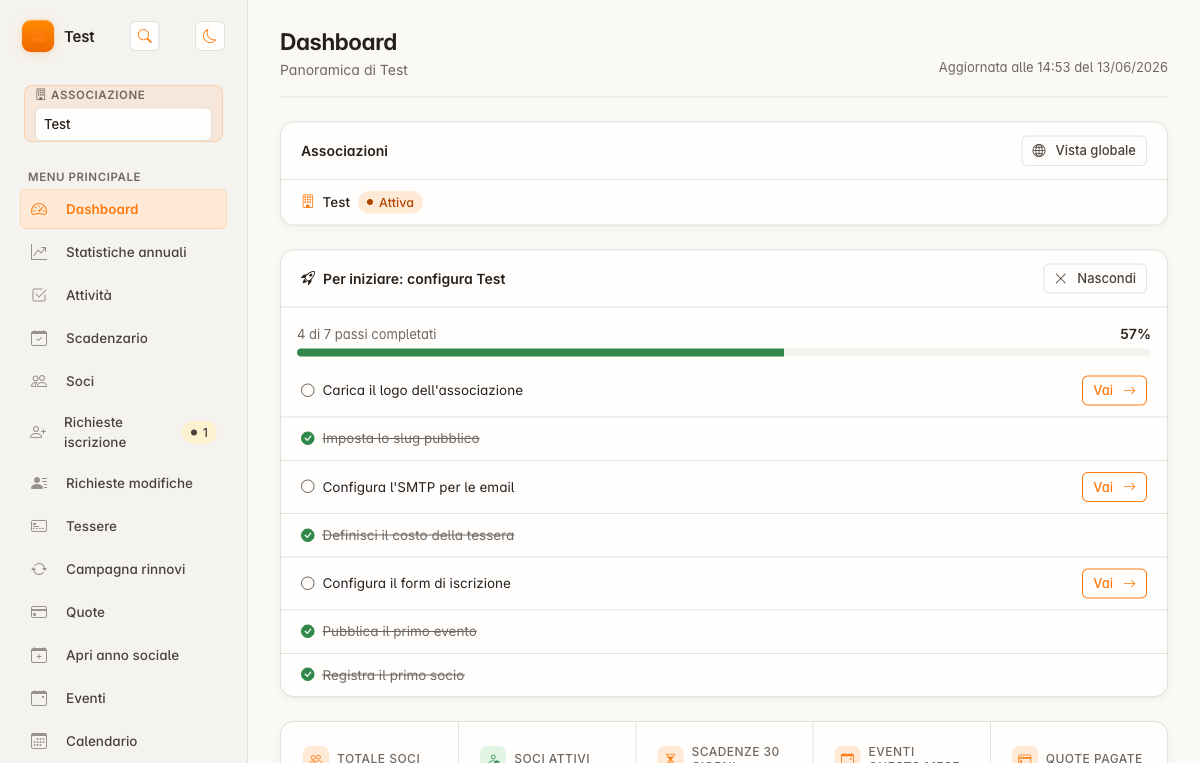
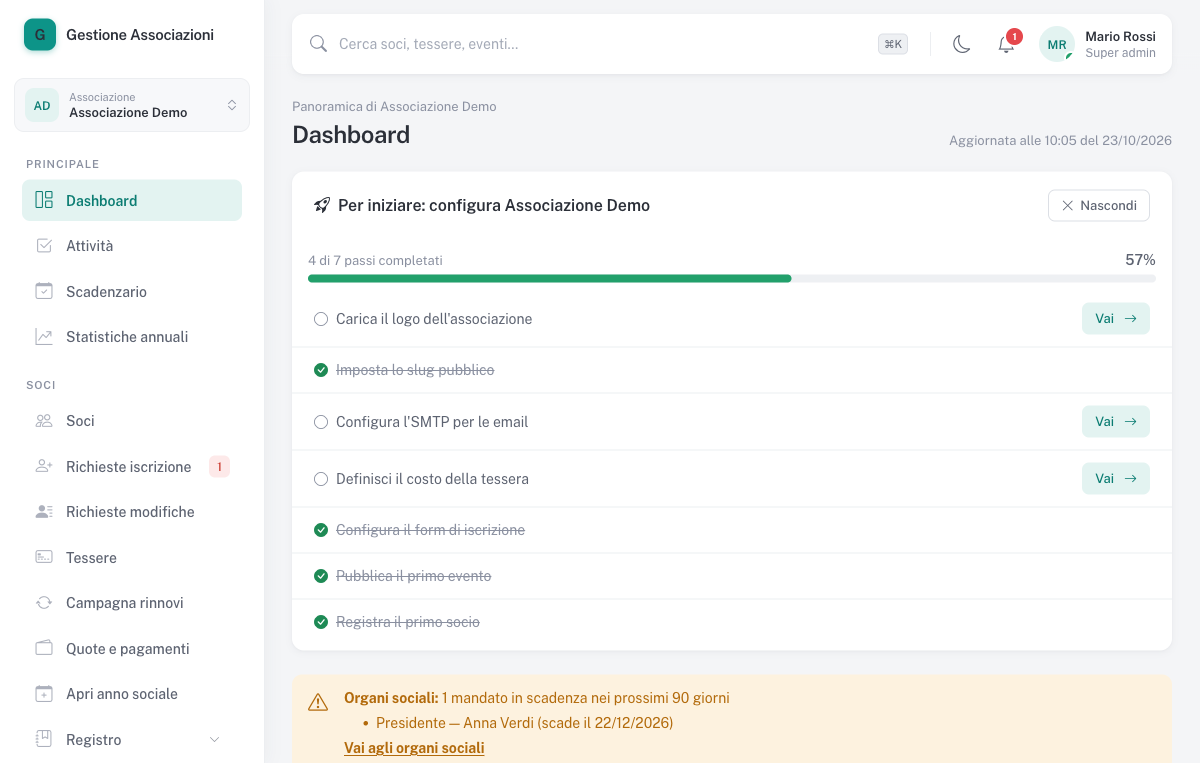
README riscritto: screenshot nuovi dall'installazione di prova e mappa completa delle funzionalità
Installazione senza terminale, aggiornamenti dalla dashboard, pubblicazione
di una versione, percorsi reali, analisi statica, sicurezza e privacy;
21 screenshot presi dal pacchetto v0.1.0 installato (wizard, pannello,
sito pubblico).

diff --git a/README.md b/README.md
@@ -1,8 +1,8 @@
 # Gestionale Associazioni
 
-Piattaforma **SaaS multi-tenant** per la gestione completa della vita di un'associazione: soci e tesseramento, eventi con prenotazioni online, quote e pagamenti, registro ufficiale e governance, comunicazione, economia, volontari e organizzazione interna. Ogni associazione ha il proprio mini-sito pubblico brandizzato dove i cittadini si iscrivono e prenotano gli eventi.
+Piattaforma **multi-tenant** per la gestione completa della vita di un'associazione: soci e tesseramento, iscrizioni dal sito, quote e pagamenti, eventi con prenotazioni e biglietti, economia, registro e organi sociali, comunicazione, volontari, spazi, progetti e riunioni. Una sola installazione serve molte associazioni; ognuna ha il proprio mini-sito pubblico su `/a/{slug}` dove i cittadini si iscrivono, prenotano e pagano, e un'area riservata per i soci.
 
-Costruita in **Laravel 13 / PHP 8.5**, con isolamento multi-tenant a livello di framework, un'area pubblica per ogni associazione, un'area riservata per i soci, API REST documentate e oltre **1.700 test automatici** (PHPUnit + Playwright E2E).
+Costruita con **Laravel 13 / PHP 8.4+**. Si installa anche su un **hosting condiviso senza terminale**: si carica il pacchetto via FTP, si apre il sito e un wizard fa il resto. Gli aggiornamenti si applicano **dalla dashboard**, con backup e rollback, sul modello dell'updater di [Pinakes](https://github.com/fabiodalez-dev/Pinakes).
 
 ![Dashboard](docs/screenshots/dashboard.png)
 
@@ -13,117 +13,118 @@ Costruita in **Laravel 13 / PHP 8.5**, con isolamento multi-tenant a livello di 
 - [Caratteristiche principali](#caratteristiche-principali)
 - [Screenshot](#screenshot)
 - [Funzionalità in dettaglio](#funzionalità-in-dettaglio)
-- [Architettura](#architettura)
-- [Stack e librerie](#stack-e-librerie)
 - [Requisiti](#requisiti)
 - [Installazione](#installazione)
-- [Aggiornamenti in-app](#aggiornamenti-in-app)
-- [Test](#test)
+- [Aggiornamenti](#aggiornamenti)
+- [Pubblicare una versione](#pubblicare-una-versione)
+- [Architettura](#architettura)
+- [Sviluppo e test](#sviluppo-e-test)
+- [Sicurezza e privacy](#sicurezza-e-privacy)
 - [Licenza](#licenza)
 
 ---
 
 ## Caratteristiche principali
 
-- 🏢 **Multi-tenant** — una sola installazione serve molte associazioni, con isolamento dei dati garantito da un global scope a livello di framework.
-- 🌐 **Mini-sito pubblico per associazione** — catalogo eventi, iscrizione soci, prenotazioni, area riservata, pagina trasparenza, sezione sostenitori, a `/a/{slug}`.
-- 🎫 **Tesseramento** — tessere con QR, verifica pubblica, rinnovi self-service, campagna rinnovi, stampa massiva, apertura anno sociale.
-- 🗓 **Eventi e prenotazioni** — pubblicazione, capienza con lista d'attesa e promozione automatica, eventi a pagamento (Stripe/PayPal), check-in con QR, calendario, ricorrenze, feedback post-evento.
-- 👤 **Account ospite e soci** — registrazione pubblica, verifica email, area riservata ricca (prenotazioni, tessera, quote, GDPR), promozione a socio.
-- 💶 **Economia** — quote e ricevute numerate, prima nota con movimenti automatici, donazioni online, report economici, budget eventi.
-- 📋 **Registro e governance** — libro soci ufficiale, cessazioni formali, organi sociali, verbali numerati, riunioni del direttivo con votazioni e bozza verbale.
-- 🤝 **Organizzazione** — volontari e turni con registro ore, spazi e prenotazioni interne, inventario e prestiti, progetti con rendicontazione.
-- ✉ **Comunicazione** — email brandizzate per tenant, template, newsletter, annunci, convocazioni assemblea, sondaggi, compleanni.
-- 🔐 **Sicurezza** — 2FA, ruoli e permessi granulari, audit trail, rate limiting, CSP, honeypot, backup pianificati.
-- 🔄 **Aggiornamenti dalla dashboard** — il super admin aggiorna l'applicazione con un clic, con backup automatico e rollback.
+- 🏢 **Multi-tenant** — isolamento dei dati per associazione a livello di framework; il super admin passa da un'associazione all'altra; le associazioni possono iscriversi da sole alla piattaforma (con conferma email e approvazione).
+- 🌐 **Mini-sito pubblico per associazione** — catalogo eventi, iscrizione soci con modulo configurabile, prenotazioni, donazioni, trasparenza, sostenitori, galleria, calendario ICS.
+- 📝 **Iscrizioni** — modulo pubblico costruito dall'associazione (campi standard e personalizzati, consensi, testi), richieste da approvare con tutti i dati della persona in vista, modalità diretta o con approvazione, preiscrizione via QR.
+- 🎫 **Tesseramento** — tessere con QR e PDF, verifica pubblica, check-in con scanner e kiosk, rinnovi self-service, campagna rinnovi, apertura anno sociale, stampa massiva.
+- 💶 **Quote e pagamenti** — quote per tipo socio, link di pagamento, Stripe e PayPal con credenziali per associazione, ricevute numerate, solleciti, prima nota automatica.
+- 🗓 **Eventi** — capienza e lista d'attesa con promozione automatica, approvazione, eventi a pagamento, biglietti con QR, presenze, serie ricorrenti, feedback, galleria, budget e spese.
+- 📋 **Registro e governance** — libro soci ufficiale (PDF/Excel), cessazioni, organi sociali e cariche, riunioni del direttivo con votazioni e verbale, verbali firmati, decisioni, adempimenti, scadenzario.
+- 🤝 **Organizzazione** — volontari con turni, candidature e registro ore con attestato; spazi con prenotazioni e conflitti; attrezzature e prestiti; progetti con milestone e report; CRM a colonne, contatti esterni, sponsor, referral.
+- ✉ **Comunicazione** — email brandizzate con SMTP per associazione, coda e log, template, newsletter con opt-out, annunci e convocazioni, sondaggi, compleanni, notifiche.
+- 👤 **Account e area soci** — registrazione con verifica email, area riservata (tessera, quote, prenotazioni, dati personali), richieste di modifica dati, export e cancellazione GDPR.
+- 🔐 **Sicurezza** — 2FA, ruoli e permessi per modulo, perimetro per sede, audit di accessi e modifiche, blocco tentativi, CSP, honeypot, backup pianificati, API REST documentate con token.
+- 📦 **Installazione e aggiornamento senza terminale** — pacchetto di release con tutto dentro, wizard web che inietta lo schema SQL nel database vuoto, aggiornamenti dalla dashboard con verifica del pacchetto, backup e rollback.
 
 ---
 
 ## Screenshot
 
-### Dashboard amministrativa
-![Dashboard](docs/screenshots/dashboard.png)
+### Installazione guidata
+Requisiti del server e configurazione del database: lo schema viene iniettato nel database indicato, senza terminale.
 
-### Anagrafica soci
+![Installer: requisiti](docs/screenshots/installer-requisiti.png)
+![Installer: database](docs/screenshots/installer-database.png)
+
+### Soci e richieste di iscrizione
 ![Soci](docs/screenshots/soci.png)
+![Richieste iscrizione](docs/screenshots/richieste-iscrizione.png)
 
-### Eventi
+### Tessere, quote e rinnovi
+![Tessere](docs/screenshots/tessere.png)
+![Quote e pagamenti](docs/screenshots/quote.png)
+![Campagna rinnovi](docs/screenshots/campagna-rinnovi.png)
+
+### Eventi e calendario
 ![Eventi](docs/screenshots/eventi.png)
+![Calendario](docs/screenshots/calendario.png)
 
-### Statistiche annuali (l'anno in cifre)
+### Economia e statistiche
+![Prima nota](docs/screenshots/prima-nota.png)
 ![Statistiche annuali](docs/screenshots/statistiche.png)
 
-### Prima nota economica
-![Prima nota](docs/screenshots/prima-nota.png)
+### Organizzazione
+![Riunioni del direttivo](docs/screenshots/riunioni.png)
+![Volontari e turni](docs/screenshots/volontari-turni.png)
+![CRM a colonne](docs/screenshots/crm.png)
 
-### Mini-sito pubblico dell'associazione
-![Frontend pubblico](docs/screenshots/frontend-eventi.png)
+### Configurazione e modulo di iscrizione
+![Configurazioni](docs/screenshots/configurazioni.png)
+![Costruttore del modulo di iscrizione](docs/screenshots/modulo-iscrizione.png)
 
-### Login
-![Login](docs/screenshots/login.png)
+### Mini-sito pubblico
+![Home pubblica](docs/screenshots/frontend-home.png)
+![Eventi pubblici](docs/screenshots/frontend-eventi.png)
+![Modulo di iscrizione pubblico](docs/screenshots/frontend-iscriviti.png)
+
+### Aggiornamenti dalla dashboard
+![Aggiornamenti](docs/screenshots/aggiornamenti.png)
 
 ---
 
 ## Funzionalità in dettaglio
 
-Il sistema è stato costruito in round successivi. Ogni area è coperta da test automatici.
+### Soci
+Anagrafica completa con stati (in attesa, attivo, sospeso, radiato…), tipi e categorie, sedi, tag, gruppi dinamici, filtri salvati, ricerca globale ⌘K, note interne, storico attività, documenti del socio, foto. **Campi personalizzati** di nove tipi (testo, email, telefono, numero, data, url, area di testo, scelta, casella) con validazione per tipo, obbligatorietà separata per segreteria e modulo pubblico, modificabili anche con dati già inseriti. Import CSV con report degli errori, export CSV/Excel, rilevazione e unione dei duplicati, azioni in blocco, nuclei familiari, soci minorenni con tutore, cestino con ripristino, registro delle modifiche.
 
-### Base — gestione associativa
-Anagrafica soci con campi personalizzati, tag, gruppi dinamici, filtri salvati, ricerca full-text, import/export Excel. Tessere con QR, template, PDF, verifica pubblica e scanner. Quote e pagamenti online (Stripe/PayPal). Eventi e partecipanti. Email per tenant (template, coda, log, SMTP dedicato). Documenti, verbali, scadenze. Gestione associazioni, sedi, amministratori, configurazioni. API REST v1 con Sanctum e documentazione OpenAPI.
+### Iscrizioni dal sito
+Ogni associazione costruisce il proprio modulo (`/a/{slug}/iscriviti`): campi standard da mostrare o nascondere, campi personalizzati, obbligatorietà, testi e consensi. La richiesta crea un socio preiscritto e arriva agli admin con tutti i dati della persona in vista; approvazione con delibera, tessera e quota in un clic (email di benvenuto con link di pagamento), oppure rifiuto motivato. Modalità diretta senza approvazione. Preiscrizione da QR di invito, anche senza account. Richieste di modifica dati dall'area soci con approvazione.
 
-### Prenotazioni eventi (frontend pubblico)
-Mini-sito brandizzato per ogni associazione: catalogo eventi, **account ospite** con verifica email, prenotazioni con **capienza e lista d'attesa** (promozione FIFO automatica), **eventi a pagamento** con Stripe/PayPal, **biglietto con QR** e PDF, **check-in** dallo scanner admin. Area riservata account completa: prenotazioni, storico, profilo, preferenze, **export e cancellazione GDPR**.
+### Tessere e rinnovi
+Tessere con numero progressivo, QR e PDF da template configurabile, verifica pubblica (HTML e JSON), scanner e kiosk per il check-in, tessere automatiche all'approvazione. Rinnovo dall'area soci con pagamento online, campagna rinnovi con email personalizzate e promemoria multi-step, apertura del nuovo anno sociale con generazione delle quote, stampa massiva, storico tesseramento esportabile.
 
-### Iscrizioni e preiscrizioni
-**Form di iscrizione personalizzabile** per ogni associazione (campi configurabili, validazione codice fiscale e telefono), aperto anche agli **ospiti senza account**. Modalità preiscrizione (con approvazione) o diretta. Preiscrizione anche alle prenotazioni evento. Gestione delle richieste lato admin con approvazione, tessera e quota automatiche.
+### Quote e pagamenti
+Quote per anno e tipo socio, pagamento registrato in sede o online (Stripe, PayPal, credenziali per associazione), link pubblico di pagamento, ricevute PDF numerate, solleciti ai morosi con tracciamento, webhook idempotenti. Ogni incasso finisce in prima nota.
 
-### Vita sociale (25 funzionalità)
-Rinnovi self-service, campagna rinnovi, promemoria multi-step, apertura anno sociale. Calendario eventi con export ICS, eventi ricorrenti, feedback post-evento, eventi riservati ai soci. **Libro soci ufficiale**, cessazioni formali, organi sociali, verbali numerati. Layout email brandizzato, ricevute quote PDF, centro anteprime email. Slug editabile con QR di invito, documenti con scadenza, rilevazione duplicati, export multi-foglio.
+### Eventi
+Eventi pubblici o riservati ai soci, bozze, capienza con **lista d'attesa e promozione automatica**, prenotazioni con o senza approvazione, eventi a pagamento con conferma offline o online, biglietti PDF con QR e check-in la sera dell'evento (doppio passaggio rifiutato), partecipanti e foglio presenze, serie ricorrenti modificabili in blocco, feedback post-evento solo a chi ha partecipato, galleria pubblica o privata, budget e spese, sincronizzazione con Google Calendar, export ICS.
 
-### Gestione semplificata (25 funzionalità)
-**Ricerca globale ⌘K**, azioni in blocco sui soci, note interne, attività admin, registro modifiche. Bacheca annunci, newsletter, sondaggi, compleanni, contatti rapidi. **Prima nota** con movimenti automatici da quote e prenotazioni, report economico, **donazioni online**, solleciti quote, scadenzario unificato. Richieste modifica dati, nuclei familiari, **kiosk check-in**, soci minorenni con tutore. Onboarding, cestino unificato, audit accessi.
+### Economia
+Prima nota con categorie e movimenti automatici da quote, prenotazioni e donazioni, report economico per anno con export, donazioni dal sito pubblico, scadenzario unificato, solleciti.
 
-### Organizzazione (25 funzionalità)
-**Volontari e turni** con disponibilità, mansioni, auto-candidatura, registro ore e attestato PDF. **Spazi** con prenotazioni e rilevazione conflitti, **inventario e prestiti** attrezzature. **Progetti** con milestone, rendicontazione e report PDF. **Riunioni del direttivo** con ordine del giorno, votazioni e generazione bozza verbale, archivio decisioni, adempimenti ricorrenti. **Mini-CRM** contatti esterni, sponsor con sezione pubblica, **referral porta-un-amico**, galleria foto eventi, **statistiche annuali** con confronto anno-su-anno ed export PDF.
+### Registro e governance
+Libro soci ufficiale in PDF ed Excel, cessazioni formali con delibera, organi sociali e cariche con mandati in scadenza, riunioni del direttivo (convocazione, presenze, votazioni, bozza del verbale), verbali numerati con firmatari e approvazione, archivio delle decisioni, adempimenti ricorrenti con promemoria, documenti con cestino e link temporanei, sezione pubblica **Trasparenza**.
 
-### Convocazioni e trasparenza
-Annunci di tipo **convocazione assemblea** (data, luogo, ordine del giorno, invio email ai soci) e sezione pubblica **Trasparenza** dove pubblicare bilanci, statuto e documenti per categoria.
+### Organizzazione
+Volontari con mansioni, disponibilità, turni a posti limitati, candidature dall'area soci, conferme, presenze, registro ore e attestato PDF. Spazi con prenotazioni e rilevazione dei conflitti. Attrezzature con prestiti e restituzioni. Progetti con milestone, avanzamento e report PDF. CRM a colonne (kanban), contatti esterni, sponsor con sezione pubblica, referral porta-un-amico, statistiche annuali con confronto e PDF.
 
----
+### Comunicazione
+SMTP per associazione, layout email brandizzato, template modificabili, centro anteprime, coda con retry e log, notifiche di piattaforma. Annunci in bacheca, convocazioni di assemblea con email ai soci, newsletter con anteprima e opt-out (doppio), sondaggi votabili dall'area soci e dagli account, auguri di compleanno, contatti rapidi.
 
-## Architettura
-
-| Aspetto | Implementazione |
-|---|---|
-| **Multi-tenancy** | Trait `BelongsToAssociazione` → global scope su `associazione_id`; middleware `tenant`; il super_admin opera sull'associazione selezionata |
-| **Chiavi** | UUID (`HasUuids`) su tutte le entità di dominio |
-| **Autenticazione** | Fortify + 2FA per gli admin (`utenti`); guard `socio` per l'area soci; guard `account` per il frontend pubblico; Sanctum per le API |
-| **Autorizzazione** | Policy + permessi granulari spatie/permission (ruoli `super_admin`, `admin_associazione`, `operatore`) |
-| **Audit** | spatie/activitylog su tutti i modelli |
-| **Frontend pubblico** | Per associazione su `/a/{slug}`, risolto da `RisolviTenantPubblico` senza sessione admin |
-| **Pagamenti** | Interfaccia `Pagabile` (quote, prenotazioni, donazioni) con dispatch webhook per tipo |
-| **Code & scheduler** | Driver `database`; scheduler in `routes/console.php` monitorato |
-
-Convenzioni: rotte per modulo in `routes/modules/`, controller in `app/Http/Controllers/<Modulo>/`, validazione via Form Request, viste sul design system condiviso (Bootstrap 5.3, tema chiaro/scuro, brand `#FF7B11`).
-
-A colpo d'occhio: **68 modelli**, **159 controller**, **232 rotte**, **58 migration**, **1.716 test**.
-
----
-
-## Stack e librerie
-
-**Laravel 13 · PHP 8.4–8.5 · MySQL 8** (test su SQLite in-memory).
-
-Le 25 librerie principali: Fortify, Sanctum, Scout, spatie (permission, activitylog, backup, medialibrary, query-builder, data, settings, csp, honeypot, health, schedule-monitor), maatwebsite/excel, barryvdh/laravel-dompdf, chillerlan/php-qrcode, propaganistas/laravel-phone, robertogallea/laravel-codicefiscale, mews/purifier, dedoc/scramble, stripe/stripe-php, srmklive/paypal, larastan, debugbar.
+### Piattaforma e amministrazione
+Registrazione autonoma delle associazioni (conferma email, revisione del super admin), sedi e **perimetro per sede** (operatori che vedono solo la propria sede), amministratori su invito, ruoli dell'associazione (presidente, tesoriere, segretario…) con matrice dei permessi, configurazioni (dati, logo, tesseramento, campi obbligatori, pagamenti, email, moduli pubblici), impostazioni di sistema, audit accessi, job falliti, cestino unificato, health check, backup pianificati, API REST v1 (Sanctum e chiavi API) con documentazione OpenAPI, app installabile (PWA).
 
 ---
 
 ## Requisiti
 
-- PHP **8.4+** (consigliato 8.5) con `pdo_mysql`, `mbstring`, `zip`, `gd`, `intl`, `curl`, `openssl`
-- **MySQL 8** (o MariaDB compatibile)
-- Composer 2, Node.js 20+ e npm
-- `mysqldump` nel PATH (per i backup)
+- PHP **8.4 o successivo** con `pdo_mysql`, `mbstring`, `openssl`, `tokenizer`, `xml`, `ctype`, `json`, `curl`, `fileinfo`, `gd`, `zip`, `intl`
+- **MySQL 5.7.8+** o **MariaDB 10.2.7+** (colonne `json`, collation `utf8mb4_unicode_ci`); consigliato MySQL 8
+- Un cron ogni minuto (vedi sotto)
+- Solo per lavorare sui sorgenti: Composer 2, Node.js 22 e npm
 
 ---
 
@@ -131,42 +132,28 @@ Le 25 librerie principali: Fortify, Sanctum, Scout, spatie (permission, activity
 
 ### Su hosting condiviso, senza terminale (consigliato)
 
-1. Scarica `gestionale-associazioni-vX.Y.Z.zip` dall'ultima [release](https://github.com/fabiodalez-dev/gestionale-associazioni/releases): contiene già tutto (`vendor/`, asset compilati), non serve né Composer né npm.
+1. Scarica `gestionale-associazioni-vX.Y.Z.zip` dall'ultima [release](https://github.com/fabiodalez-dev/Gestionale-Associazioni/releases): contiene già tutto (`vendor/`, asset compilati), non serve né Composer né npm.
 2. Estrai lo zip: trovi una cartella `gestionale-associazioni/`. Carica via FTP o File Manager **il contenuto** di quella cartella in `public_html` (l'app risponde su `https://tuodominio.it`), oppure l'intera cartella (risponde su `https://tuodominio.it/gestionale-associazioni`).
-3. Nel pannello dell'hosting seleziona **PHP 8.4 o successivo** e crea un database MySQL con un utente (annota nome, utente e password).
-4. Apri il sito nel browser: parte da solo il wizard `/install`, che crea `.env` e chiave dell'applicazione, verifica i requisiti, inietta lo schema nel database e crea il primo super admin.
+3. Nel pannello dell'hosting seleziona **PHP 8.4 o successivo** e crea un database MySQL con un utente.
+4. Apri il sito nel browser: parte il wizard `/install`, che crea `.env` e chiave dell'applicazione, verifica i requisiti, inietta lo schema nel database e crea la prima associazione con il super admin.
 5. Alla fine il wizard mostra il comando per il cron (cPanel → Cron Jobs, ogni minuto): manda le email in coda, i promemoria e i backup.
 
-Il `.htaccess` nella radice del progetto fa passare tutte le richieste da `public/`, quindi `app/`, `storage/`, `vendor/` e `.env` non sono raggiungibili dal browser; ogni cartella non pubblica ha inoltre un proprio `.htaccess` di diniego, che vale anche se l'hosting non ha mod_rewrite (in quel caso l'app risponde su `/public/`). Se puoi scegliere la document root (VPS, hosting che lo permette), puntala direttamente a `public/`. Il pacchetto si costruisce con `bash bin/build-release.sh` (lo fa la GitHub Action a ogni tag `v*`, e l'aggiornatore in-app scarica lo stesso pacchetto).
+Il `.htaccess` nella radice fa passare tutte le richieste da `public/`; `app/`, `storage/`, `vendor/` e `.env` non sono raggiungibili dal browser e ogni cartella interna ha il proprio `.htaccess` di diniego, valido anche senza mod_rewrite (in quel caso l'app risponde su `/public/`). Se puoi scegliere la document root, puntala a `public/`.
 
-### Installer web da sorgenti
+Lo schema non viene creato eseguendo le migration a runtime ma importando `database/installer/schema.sql`, un dump del database vuoto (struttura più registro delle migration) eseguito istruzione per istruzione via PDO: funziona anche senza `exec()` né client `mysql`, in pochi secondi, sempre uguale. Le tabelle dell'applicazione già presenti vengono ricreate vuote solo dietro conferma esplicita; un database con un'installazione completa non viene mai toccato dal wizard; le tabelle estranee restano intatte. Dettagli in [docs/INSTALLER.md](docs/INSTALLER.md).
+
+### Da sorgenti
 
 ```bash
-git clone https://github.com/fabiodalez-dev/gestionale-associazioni.git
-cd gestionale-associazioni
+git clone https://github.com/fabiodalez-dev/Gestionale-Associazioni.git
+cd Gestionale-Associazioni
 composer install --no-dev
 npm install && npm run build
 ```
 
-Apri **`/install`** nel browser (in sviluppo con `php artisan serve --no-reload`: il wizard scrive il `.env` e senza quell'opzione il server di sviluppo si riavvierebbe a metà richiesta): il wizard in 5 passi (requisiti → database → super admin → email → fine) crea il `.env` da `.env.example` se manca, genera l'`APP_KEY`, inietta lo schema del database vuoto nel database indicato, crea il primo super admin e il collegamento `public/storage`. Al termine l'installer si blocca da solo.
+Apri `/install` nel browser (in sviluppo con `php artisan serve --no-reload`: il wizard scrive il `.env` e senza quell'opzione il server di sviluppo si riavvierebbe a metà richiesta).
 
-Server supportati: MySQL 5.7.8 o successivo, MariaDB 10.2.7 o successivo (colonne `json` e collation `utf8mb4_unicode_ci`); il wizard rifiuta versioni più vecchie. Lo schema non viene creato eseguendo le migration a runtime ma importando `database/installer/schema.sql`, un dump del database vuoto (struttura + registro delle migration già applicate) eseguito istruzione per istruzione via PDO: funziona anche sugli hosting condivisi senza `exec()` né client `mysql`, è veloce e produce sempre lo stesso risultato. Le tabelle dell'applicazione già presenti nel database vengono ricreate vuote solo dietro conferma esplicita; le tabelle estranee restano intatte. Dopo l'installazione `php artisan migrate` (anche quello dell'aggiornamento in-app) applica soltanto le migration nuove.
-
-#### Rigenerare lo schema dell'installer
-
-Dopo ogni nuova migration va rigenerato il file, altrimenti il test `SchemaSqlTest` fallisce:
-
-```bash
-php artisan installer:genera-schema
-```
-
-Il comando crea un database temporaneo `gestione_associazioni_schema_tmp` con le credenziali MySQL del `.env`, ci esegue tutte le migration, scrive il dump e cancella il database temporaneo. Per provare l'iniezione su un MySQL reale:
-
-```bash
-INSTALLER_TEST_MYSQL_DSN="mysql://root:segreta@127.0.0.1:3306/gestione_installer_test" php artisan test --filter=InstallaSchemaMysqlTest
-```
-
-### Installazione manuale (CLI)
+In alternativa, installazione manuale da terminale:
 
 ```bash
 composer install
@@ -178,25 +165,35 @@ npm install && npm run build
 php artisan storage:link
 ```
 
-### Avvio
+### Avvio e attività in background
 
 ```bash
 php artisan serve            # applicazione
-php artisan queue:work       # coda email e job (obbligatorio)
+php artisan queue:work       # coda email e job
 # cron: * * * * * php artisan schedule:run
 ```
 
-Su hosting condiviso, dove un worker permanente non si può tenere acceso, basta un cron ogni minuto che esegue entrambi:
+Su hosting condiviso, dove un worker permanente non si può tenere acceso, basta un cron ogni minuto:
 
 ```bash
 cd /home/utente/public_html && php artisan schedule:run >> /dev/null 2>&1 && php artisan queue:work --stop-when-empty --max-time=50 >> /dev/null 2>&1
 ```
 
+### Comandi utili
+
+```bash
+php artisan app:disinstalla          # backup, poi svuota database e file caricati e riapre l'installer
+php artisan admin:recupera-accesso   # recupero dell'accesso di un amministratore
+php artisan installer:genera-schema  # rigenera database/installer/schema.sql dopo una migration
+```
+
 ---
 
-## Aggiornamenti in-app
+## Aggiornamenti
 
-Stesso meccanismo dell'updater di Pinakes, adattato a Laravel. Il **super admin** trova in `/aggiornamenti` versione installata e ultima release GitHub, i requisiti (PHP, zip, cartelle scrivibili, spazio, prova di scrittura reale), il pulsante di aggiornamento, l'upload di un pacchetto per i server che non raggiungono GitHub, i backup e lo storico. L'aggiornamento: lock, backup del database (spatie/laravel-backup o dump in PHP puro se manca `mysqldump`), download del pacchetto `gestionale-associazioni-vX.Y.Z.zip` della release verificato con il **digest sha256 dell'API GitHub**, estrazione con controllo anti zip-slip, prova a secco dei permessi, manutenzione, backup dei file, copia (preservando `.env`, `storage/`, upload), pulizia dei file orfani, `migrate --force`, permessi, cache, coda. Se qualcosa fallisce dopo la copia i file tornano com'erano (rollback); la manutenzione viene tolta sempre, e una manutenzione rimasta accesa si sblocca dalla pagina.
+Il **super admin** trova in `/aggiornamenti` la versione installata e l'ultima release GitHub, i requisiti per aggiornare (PHP, zip, cartelle scrivibili, spazio libero, prova di scrittura reale), il pulsante di aggiornamento, il caricamento di un pacchetto per i server che non raggiungono GitHub, i backup scaricabili e lo storico.
+
+L'aggiornamento, sul modello dell'updater di Pinakes: lock esclusivo, backup del database (spatie/laravel-backup, altrimenti dump in PHP puro se manca `mysqldump`), download del pacchetto della release verificato con il **digest sha256 dell'API GitHub** (fail-closed), estrazione con controllo anti zip-slip, prova a secco dei permessi prima di toccare un byte, manutenzione, backup dei file, copia preservando `.env`, `storage/` e upload, pulizia dei file orfani, `migrate` e pulizia cache in un processo separato, riavvio della coda. Se qualcosa fallisce dopo la copia i file tornano com'erano; se anche il ripristino fallisce il sito resta in manutenzione con il percorso del backup nel messaggio. Un pacchetto più vecchio di quello installato viene rifiutato.
 
 Da terminale, come proprietario dei file (utile dove PHP del web server non può scrivere l'app):
 
@@ -208,16 +205,73 @@ php artisan app:aggiorna
 php artisan app:aggiorna --pacchetto=/percorso/gestionale-associazioni-vX.Y.Z.zip
 ```
 
-Per pubblicare una versione: aggiorna `VERSION`, rigenera lo schema se ci sono migration nuove, committa, poi `bash bin/create-release.sh X.Y.Z` (tag, Action, verifica degli asset). Dettagli in [docs/AGGIORNAMENTI.md](docs/AGGIORNAMENTI.md).
+Dettagli in [docs/AGGIORNAMENTI.md](docs/AGGIORNAMENTI.md).
 
-## Test
+---
+
+## Pubblicare una versione
+
+1. Se ci sono migration nuove: `php artisan installer:genera-schema` (il test `SchemaSqlTest` fallisce altrimenti).
+2. Aggiorna `VERSION` (semver; con `-rc.N` è una prerelease, proposta solo alle installazioni con `UPDATE_CHANNEL=rc`), committa e pusha.
+3. `bash bin/create-release.sh X.Y.Z`: controlla il tree, crea e pusha il tag, aspetta la GitHub Action `release.yml` (che costruisce il pacchetto con `bin/build-release.sh` su PHP 8.4 e lo carica nella release con lo SHA256) e verifica asset, checksum e digest.
+
+Il pacchetto si può costruire anche in locale con `bash bin/build-release.sh`.
+
+---
+
+## Architettura
+
+| Aspetto | Implementazione |
+|---|---|
+| **Multi-tenancy** | Trait `BelongsToAssociazione` → global scope su `associazione_id`; middleware `tenant`; il super admin opera sull'associazione selezionata; perimetro per sede con scope dedicato |
+| **Chiavi** | UUID (`HasUuids`) su tutte le entità di dominio |
+| **Autenticazione** | Fortify + 2FA per gli amministratori (`utenti`); guard `socio` per l'area soci; guard `account` per il frontend pubblico; Sanctum e chiavi API per le API |
+| **Autorizzazione** | Policy + permessi per modulo e azione (spatie/permission) con ruoli di piattaforma (`super_admin`, `admin_associazione`, `operatore`) e ruoli dell'associazione |
+| **Audit** | spatie/activitylog sui modelli, registro degli accessi, registro delle modifiche |
+| **Frontend pubblico** | Per associazione su `/a/{slug}`, risolto da `RisolviTenantPubblico` senza sessione admin; moduli pubblici configurabili |
+| **Pagamenti** | Interfaccia `Pagabile` (quote, prenotazioni, donazioni) con webhook per gateway |
+| **Installer** | `EnsureInstalled` (prepend al gruppo web) + `InstallerService`: schema SQL iniettato via PDO, lock, marcatore del wizard legato al browser |
+| **Updater** | `UpdateService`: release GitHub, digest, preflight, backup, copia, orfani, rollback; `DumpDatabasePhp` come backup senza `mysqldump` |
+| **Code & scheduler** | Driver `database`; scheduler in `routes/console.php` monitorato (schedule-monitor) |
+
+Convenzioni: rotte per modulo in `routes/modules/`, controller in `app/Http/Controllers/<Modulo>/`, validazione con Form Request, viste sul design system condiviso (Bootstrap 5.3, tema chiaro/scuro). Specifiche dei moduli in [docs/specs](docs/specs).
+
+A colpo d'occhio: **71 modelli**, **170 controller**, **574 rotte**, **66 migration**, **23 comandi artisan**, **1.962 test PHPUnit**, **110 test E2E**.
+
+### Stack e librerie
+
+**Laravel 13 · PHP 8.4–8.5 · MySQL 8** (test su SQLite in memoria). Fortify, Sanctum, Scout, spatie (permission, activitylog, backup, medialibrary, query-builder, data, settings, csp, honeypot, health, schedule-monitor, personal-data-export), Formello, maatwebsite/excel, barryvdh/laravel-dompdf, chillerlan/php-qrcode, propaganistas/laravel-phone, robertogallea/laravel-codicefiscale, mews/purifier, dedoc/scramble, stripe/stripe-php, srmklive/paypal; in sviluppo larastan, shipmonk/dead-code-detector, pint, debugbar.
+
+---
+
+## Sviluppo e test
 
 ```bash
-php artisan test            # ~1.716 test PHPUnit (SQLite in-memory)
-npm run test:e2e            # 109 test E2E Playwright (DB dedicato, server automatico)
-vendor/bin/pint             # code style
-vendor/bin/phpstan analyse --memory-limit=1G   # analisi statica livello 5
+php artisan test            # 1.962 test PHPUnit (SQLite in memoria)
+npm run test:e2e            # 110 test E2E Playwright (DB dedicato, server automatico)
+composer analyse            # phpstan: larastan livello 5 + rilevatore di codice morto, zero errori
+vendor/bin/pint             # stile del codice
 ```
+
+La suite comprende **60 percorsi reali** (`tests/Feature/Percorsi`): ogni test segue passo per passo quello che succede davvero in un'associazione, con più richieste HTTP fatte da attori diversi (richiedente sul sito, admin, operatore di sede, socio, volontario, scheduler): adesione e account, tesseramento e rinnovi, struttura e permessi, eventi, comunicazione e operatività, campi personalizzati e moduli.
+
+I test che toccano un MySQL reale (iniezione dello schema, dump PHP) si attivano con una variabile:
+
+```bash
+INSTALLER_TEST_MYSQL_DSN="mysql://utente:password@127.0.0.1:3306/gestione_installer_test" php artisan test --filter=Mysql
+```
+
+Analisi statica: [docs/ANALISI-STATICA.md](docs/ANALISI-STATICA.md).
+
+---
+
+## Sicurezza e privacy
+
+- Nessun dato dell'installazione nel repository: `.env` ignorato, il pacchetto di release non contiene `.env`; il wizard lo crea in produzione (`APP_DEBUG=false`).
+- Il wizard non sovrascrive mai un database già installato; a schema installato gli step successivi restano al browser che ha avviato l'installazione; a installazione finita `/install` si chiude da solo.
+- Export CSV/Excel protetti dalla formula injection, CSP, honeypot, blocco dei tentativi di accesso con audit per associazione, 2FA.
+- Export dei dati personali e cancellazione dell'account (GDPR) dall'area riservata, con anonimizzazione e rimozione dei dati non ancora approvati.
+- Backup del database prima di ogni aggiornamento; backup pianificati con spatie/laravel-backup.
 
 ---
 
